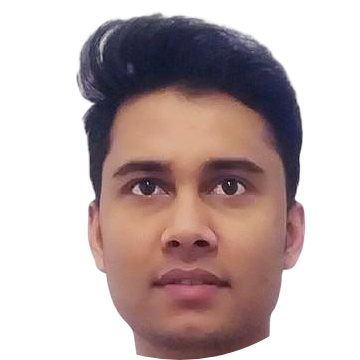
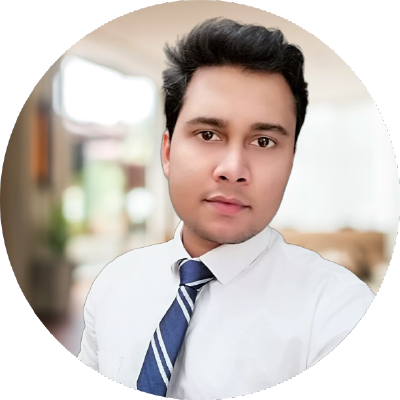
updated the exp and pictures

diff --git a/index.html b/index.html
@@ -101,9 +101,8 @@
                     <div class="banner_text">
                         <div class="banner_text_iner">
                                 <img src="img/analytics.gif" alt="#">
-                            <h5>Hi, this is Niraj Dev Pandey.</h5>
-                            <h5>Data Scientist &
-                                    Machine Learning Practitioner</h5>
+                            <h5>Hi, this is Dr. Niraj Dev Pandey.</h5>
+                            <h5>Artificial Intelligence, Engineering Lead</h5>
                             <div class="banner_btn">
                                 <a href="contact.html" class="btn_1">Contact me</a>
                             </div>
@@ -122,9 +121,9 @@
                 <div class="col-lg-6">
                     <div class="about_text">
                         <h4>about me</h4>
-                        <p>I am a highly competent Data Science professional with a proven track record in designing machine learning models, and managing databases. I have strong technical skills as well as excellent interpersonal skills, enabling me to interact with a wide range of clients. I am eager to be challenged in order to grow and further improve my skills. My greatest passion is in life is using my technical know-how to benefit other people and organisations.</p>
+                        <p>I bring a wealth of expertise and a passion for leading high-performing teams in the dynamic field of data science. With extensive experience in the automotive domain, I have successfully steered teams toward pioneering data-driven solutions that have reshaped the industry. My leadership is characterized by a strong commitment to fostering innovation and collaboration, as well as a deep understanding of data strategy and analytics. I excel in developing and implementing data-driven strategies that align with overarching business objectives, ensuring the delivery of robust, secure, and cost-efficient data solutions. My proficiency extends to advanced analytics, encompassing statistical modeling, machine learning, optimization, and predictive analytics, enabling the translation of complex data into actionable insights. I thrive in cross-functional environments, driving teams to define key performance indicators and measurement frameworks that guide projects to successful outcomes. With a focus on innovation and mentorship, I empower my teams to explore cutting-edge data methodologies, while my project management skills ensure that critical business transformations are executed seamlessly. My in-depth knowledge of industry trends positions me to identify growth opportunities and recommend innovative applications to address complex challenges. </p>
                         <div class="experiance">
-                            <h2>04</h2>
+                            <h2>10</h2>
                             <p>Years of <span>Experiences</span></p>
                         </div>
                     </div>
@@ -135,28 +134,27 @@
                         <div class="experiance_list_iner">
                             <div class="single_experiance_list">
                                 <div class="single_experiance_list">
-                                    <h5>Consultant Data Science</h5>
-                                    <p> at OSTHUS Services (Germany) from July 2020 till today </p>
+                                    <h5>Digitalization & Data Management Lead</h5>
+                                    <br>
+                                    <p> at ZF Group (Germany) from July 2020 till today </p>
+                                    <br>
                                 </div>
                                 <h5>Research Assistant: Machine Learning</h5>
-                                <p> at Fraunhofer IIS (Germany) from June 2019 to Nov 2019 </p>
+                                <br>
+                                <p> at Fraunhofer IIS (Germany) from July 2019 to June 2020 </p>
                             </div>
-                            <div class="single_experiance_list">
-                                <h5>Machine Learning Intern </h5>
-                                <p>at Motor-ai GmbH, Berlin (Germany) from Feb 2018 to April 2018</p>
-                            </div>
-                            <br>
                             <div class="single_experiance_list">
                                 <h5>Data Scientist: NLP</h5>
-                                <p>at COMPRA GmbH (Germany) from May 2018 to June 2019</p>
+                                <br>
+
+                                <p>at COMPRA GmbH (Germany) from April 2018 to June 2019</p>
                             </div>
-                            <div class="single_experiance_list">
-                                <h5>Student Job: Natural Language Processing </h5>
-                                <p>at taxi.io, Cologne (Germany) from April 2019 to June 2019</p>
-                            </div>
+                            <br>
+                            <br>
                             <div class="single_experiance_list">
                                     <h5>Data Analyst & CRM Manager</h5>
-                                    <p>at Profile Run, Bhopal (India) from April 2014 to June 2016</p>
+                                    <br>
+                                    <p>at Profile Run, Bhopal (India) from January 2014 to February 2017</p>
                                 </div>
                             </div>
                         </div>
@@ -239,9 +237,9 @@
                         <div class="single_service_text">
                             <span class="flaticon-layers"></span>
                             <h2>Time Series Forecasting</h2>
-                            <p> Analysing weather data to forecast future temparatures. This involves 
+                            <p> Analysing weather data to forecast future temparatures. This involves
                                 stationarity property analyzation, rolling mean/avearge implementation.
-                                We utilizes Arima forcasting by using AIC to find best parameters. 
+                                We utilizes Arima forcasting by using AIC to find best parameters.
                                 Finally using MSE and MAPE for loss analization.
                             </p>
                             <a href="https://github.com/nirajdpandey/Time-series-forecasting" class="learn_btn">learn more</a>
@@ -254,8 +252,8 @@
                             <span class="flaticon-design"></span>
                             <h2>Machine Learning racipe</h2>
                             <p>This project has all the fandamental machine learning concept implemented
-                                in python with great explaination. Starting from data cleaning to fitting ML models to 
-                            evaluating our prediction accuracy. Nice visualization will help you to find interesting 
+                                in python with great explaination. Starting from data cleaning to fitting ML models to
+                            evaluating our prediction accuracy. Nice visualization will help you to find interesting
                         features and loss during modelling</p>
                             <a href="https://github.com/nirajdpandey/Machine-Learning-with-Python" class="learn_btn">learn more</a>
                         </div>
@@ -266,7 +264,7 @@
                         <div class="single_service_text">
                             <span class="flaticon-speaker"></span>
                             <h2>My Blogs</h2>
-                            <p> I sometimes like to write on social and scientific subjects. It also includes 
+                            <p> I sometimes like to write on social and scientific subjects. It also includes
                                 my personal thoughts and observations. Please refer to the blog section for more details.
 
                             </p>
@@ -297,7 +295,7 @@
                           <p>
                             “We as a company will keep Niraj in best memory and I do not speak just for myself when I add that
                             he and his work will be held in high regard. He is already well beyond what many would expect from
-                            a man his age. 
+                            a man his age.
                           </p>
                           <div class="client_review_img">
                             <img src="img/client/client_1.png" alt="#" />
@@ -311,7 +309,7 @@
                        <div class="client_review_text">
                           <p>
                             “Niraj always wanted to
-                            achieve more than anticipated or needed for his role in our company. From my point of view, he very well did so. 
+                            achieve more than anticipated or needed for his role in our company. From my point of view, he very well did so.
                             He demonstrated that he is able to work on his own and find feasible solutions to real world problems with little if any help.
                           </p>
                           <div class="client_review_img">
@@ -324,7 +322,7 @@
                     <div class="client_review_single">
                        <div class="client_review_text">
                           <p>
-                            “Niraj has showed promising results and very good work-ethics in the Internship with us. 
+                            “Niraj has showed promising results and very good work-ethics in the Internship with us.
                             He carried extensive research and development activities for object detection and localization project.
                             I would reccomend him for any data science project undoubtedly.
                           </p>
@@ -341,7 +339,7 @@
                             “The results of SSD prototypes he developed in
                             Python, making extensive use of SOTA algorithms and libraries, were so promising that it
                             further enabled us as a company to drastically improve the definition of the project and its feasibility
-                            in general. 
+                            in general.
                           </p>
                           <div class="client_review_img">
                              <img src="img/client/client_4.png" alt="#" />
@@ -369,10 +367,6 @@
                          <h2>nirajdevpandey@gmail.com</h2>
                      </div>
                  </div>
-                 <div class="col-lg-6">
-                     <div class="footer_btn">
-                         <a href="https://docs.google.com/document/d/1kRB8cvzvceMamiKDpZGT0DWrgHx3-FQRUoCY4l-JpnQ/edit?usp=sharing" class="btn_1">Download CV</a>
-                     </div>
                  </div>
                  <div class="col-lg-6">
                      <div class="footer_menu">
